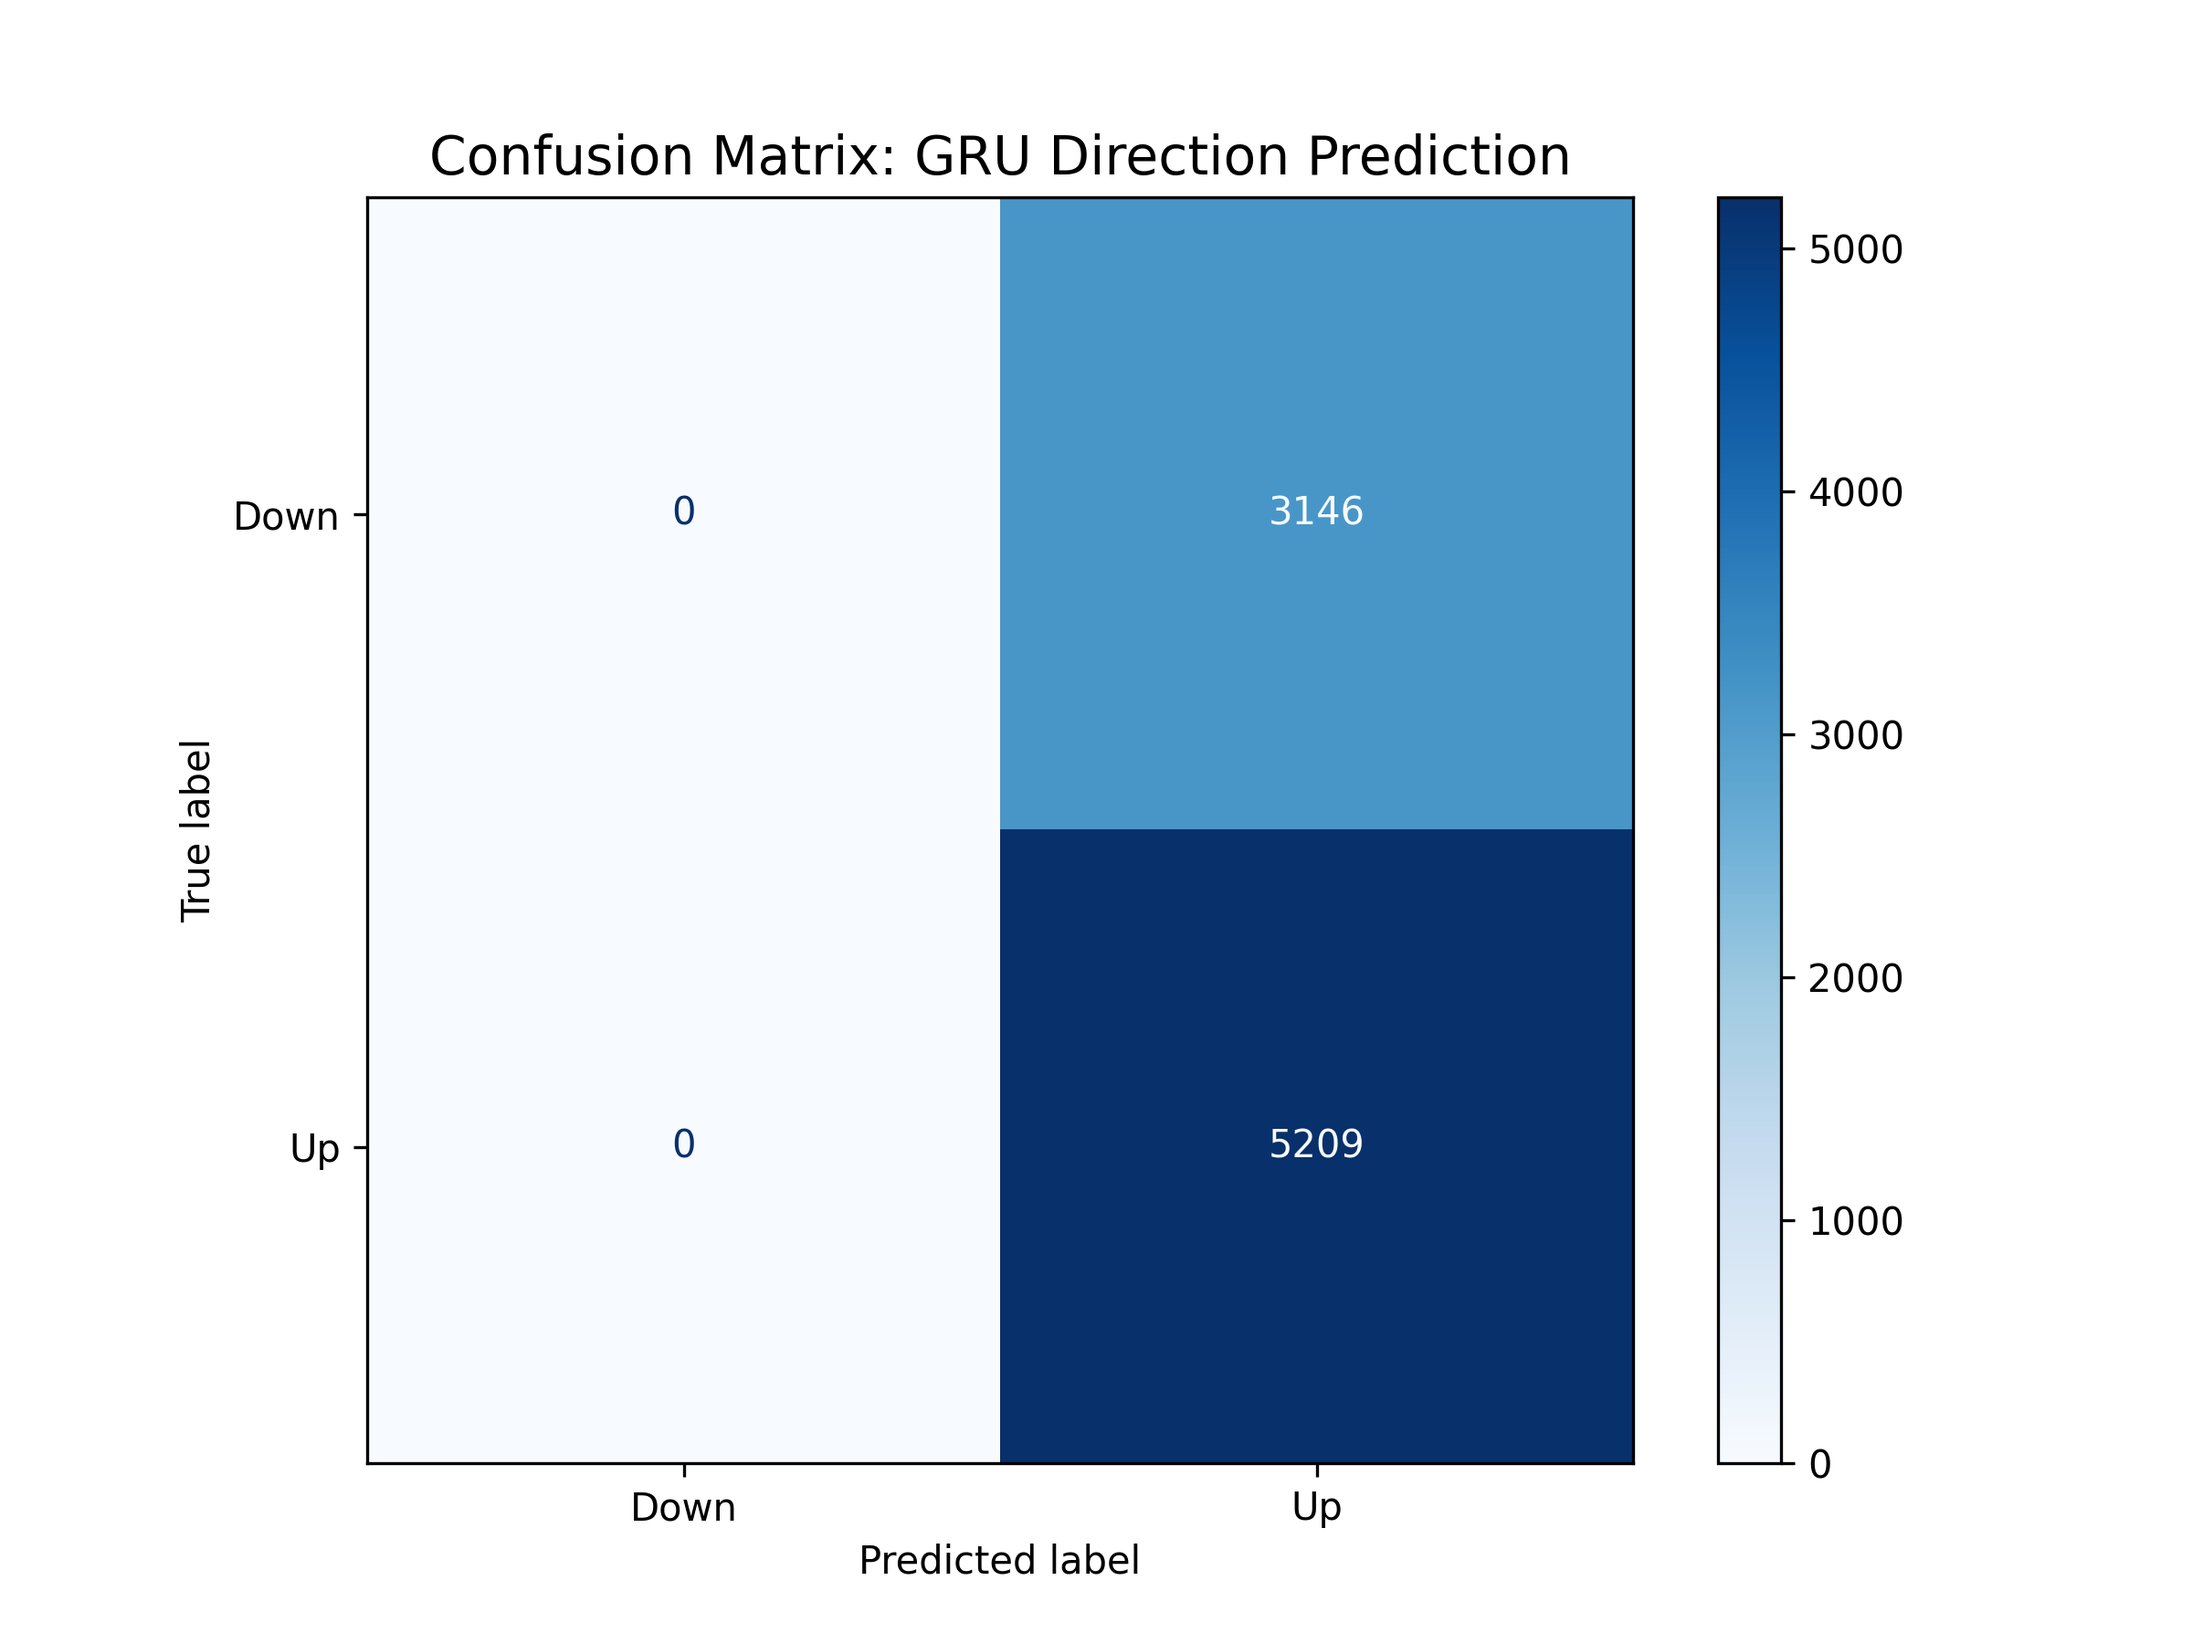
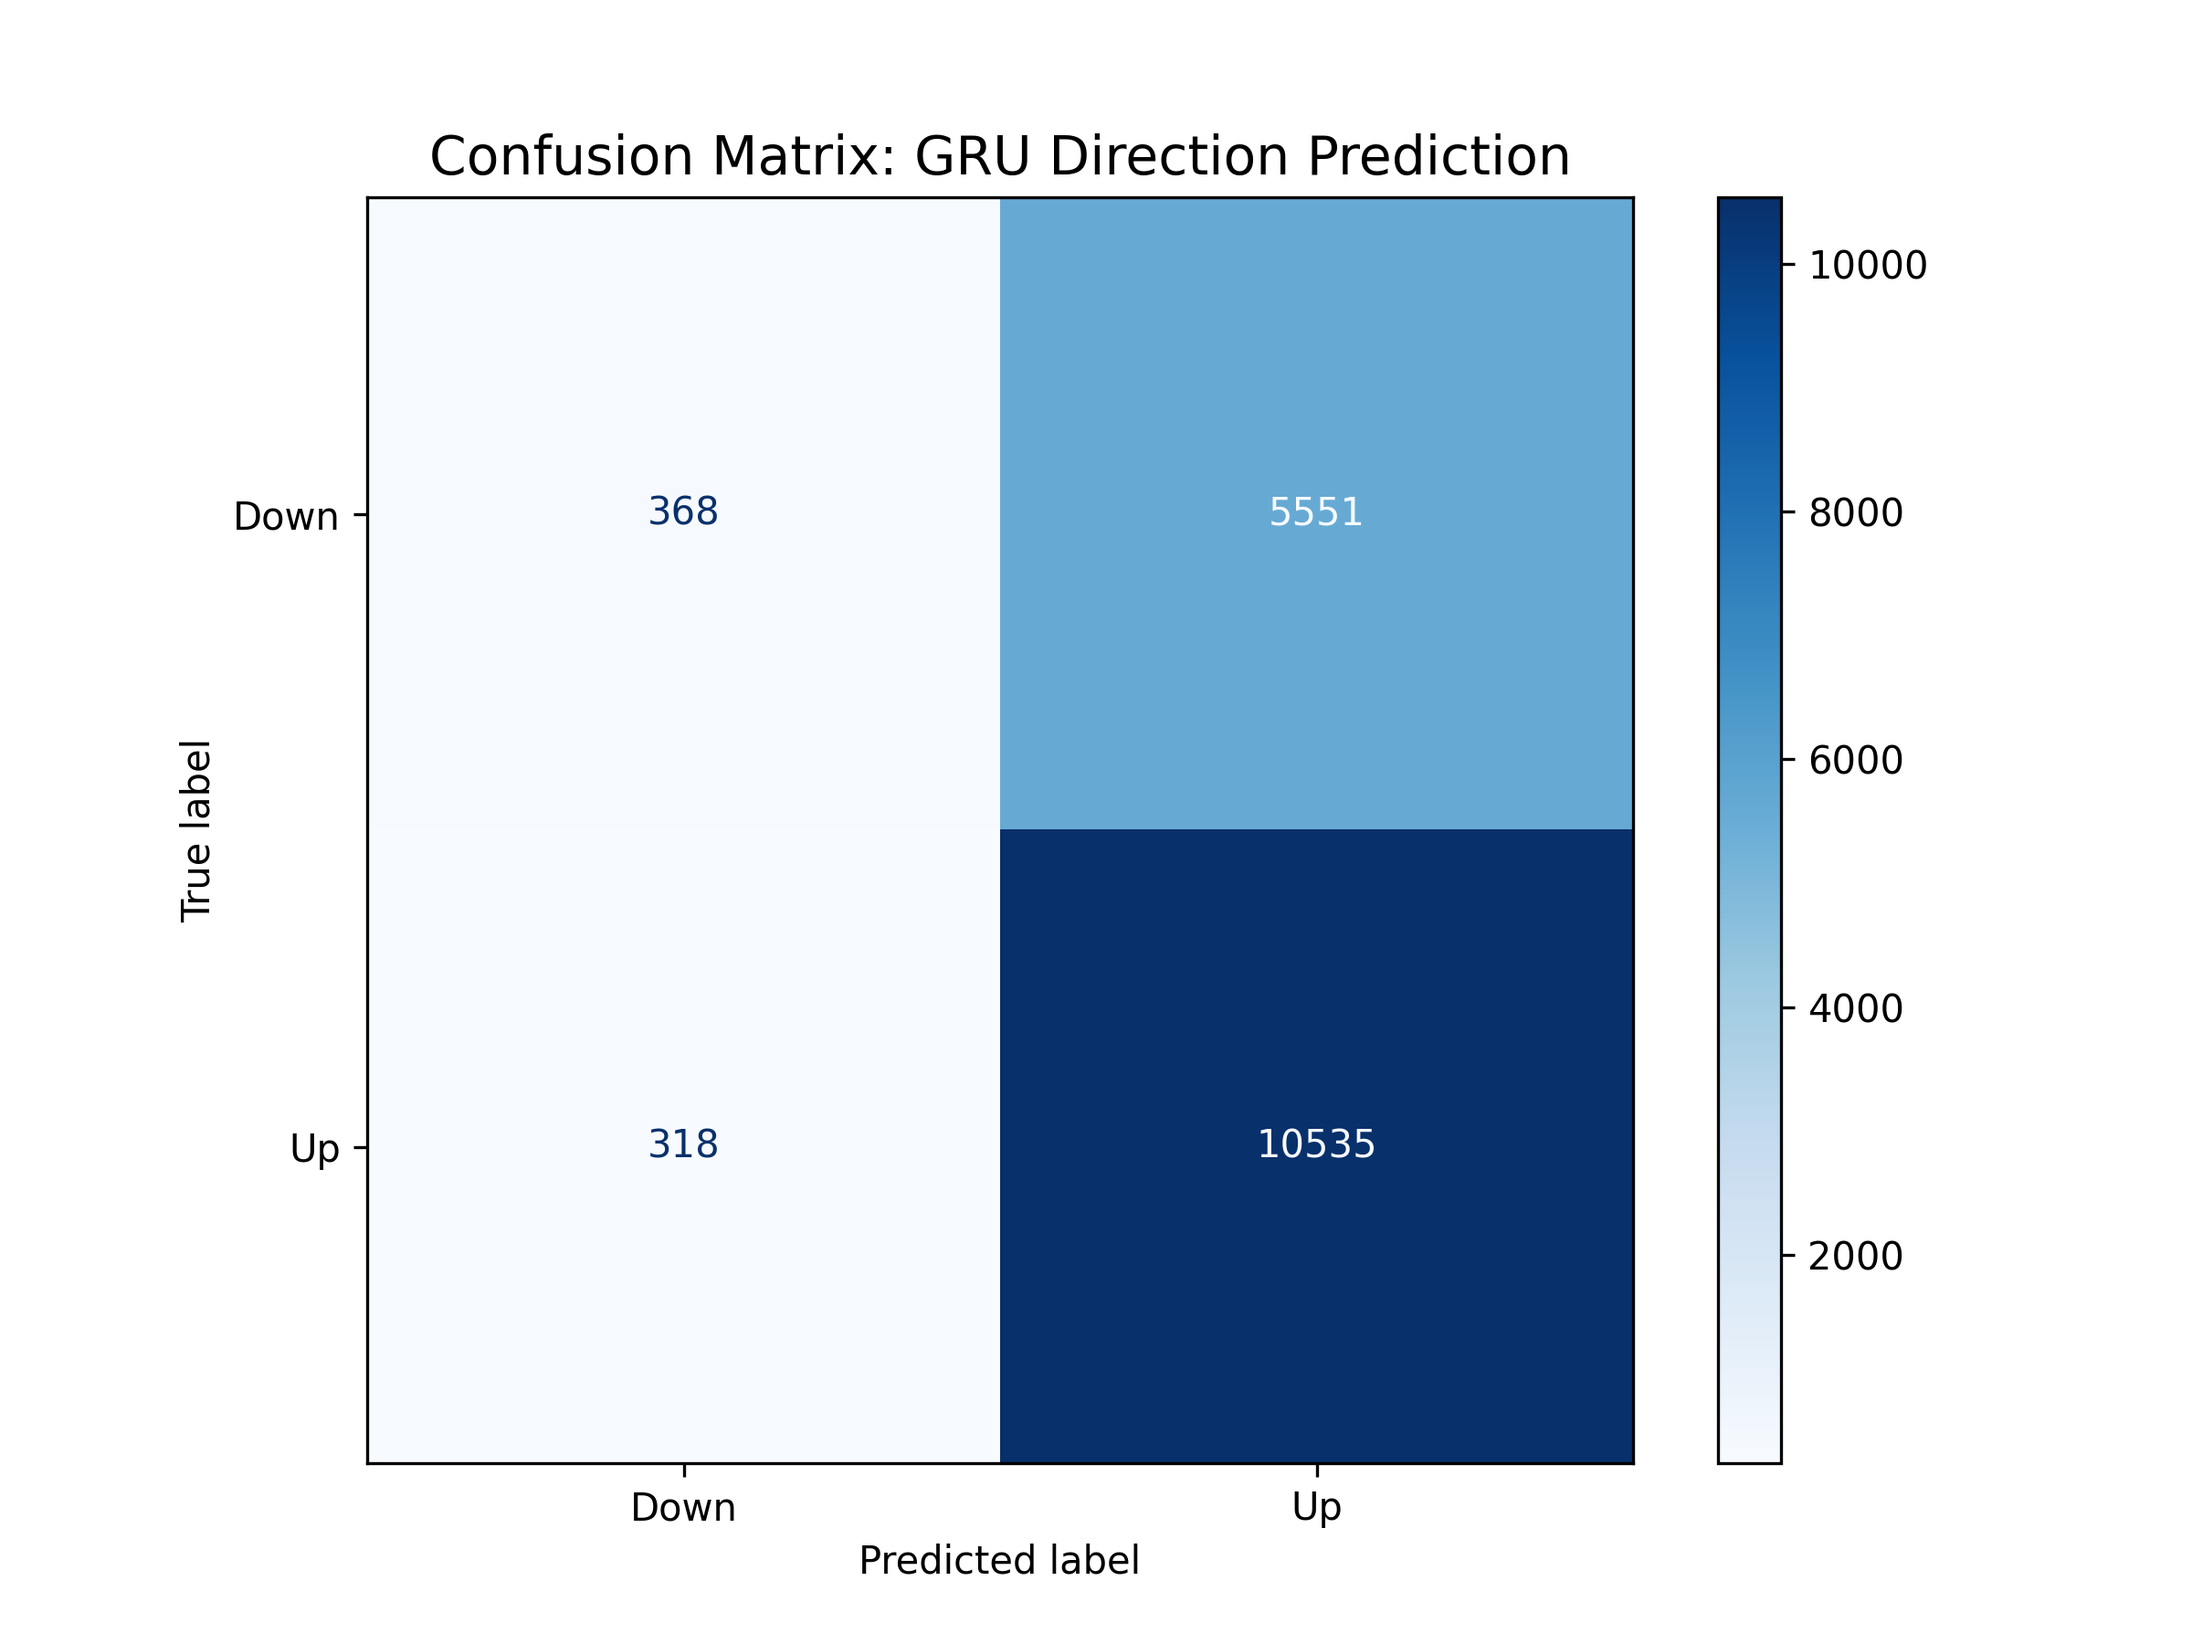
Enhance model training with weighted binary cross-entropy loss
- Updated the compile_model function to accept a down-weight parameter for handling class imbalance in binary classification.
- Implemented a custom weighted_binary_crossentropy function to apply class weights during loss calculation.
- Adjusted the train_model function to calculate the down-weight based on the training dataset's class distribution.
- Updated LSTM and Transformer model history files with new training results.
- Updated various plot images for GRU, LSTM, and Transformer models to reflect the latest training outcomes.

diff --git a/train.py b/train.py
@@ -56,15 +56,22 @@ def prepare_data():
 
 # ── Compile ───────────────────────────────────────────────────────────────────
 
-def compile_model(model: Model):
+def compile_model(model: Model, down_weight: float):
     """
     Compile a model with the shared loss, metrics and optimizer.
     """
+    def weighted_binary_crossentropy(y_true, y_pred):
+        # Standard cross entropy
+        bce = tf.keras.losses.binary_crossentropy(y_true, y_pred)
+        
+        weight_vector = y_true * 1.0 + (1.0 - y_true) * down_weight
+        return tf.reduce_mean(bce * tf.cast(weight_vector, tf.float32))
+    
     model.compile(
         optimizer=Adam(LR),
         loss={
             'price': 'mse',
-            'direction': 'binary_crossentropy'
+            'direction': weighted_binary_crossentropy
         },
         loss_weights={
             'price': 1.0,
@@ -117,7 +124,16 @@ def train_model(model:Model, model_name: str, splits: tuple):
     y_dir_train, y_dir_val, y_dir_test,
     lc_train, lc_val, lc_test) = splits
 
-    compiled_model = compile_model(model)
+    y_dir_flat = y_dir_train.flatten()
+    num_down = np.sum(y_dir_flat == 0)
+    num_up = np.sum(y_dir_flat == 1)
+    
+    down_weight = num_up / num_down if num_down > 0 else 1.0
+    
+    print(f"\033[93mApplying Down-Class Weight Factor: {down_weight:.2f}\033[0m")
+
+    compiled_model = compile_model(model, down_weight)
+
     history = compiled_model.fit(x = X_train,
                                 y = {'price': y_price_train, 'direction': y_dir_train},
                                 validation_data=(X_val, {'price': y_price_val, 'direction': y_dir_val}),

diff --git a/evaluate.py b/evaluate.py
@@ -166,7 +166,7 @@ def evaluate_model(model_name: str, splits: tuple):
     _, _, last_closes_test) = splits
 
     model_path = f'{MODELS_DIR}/{model_name}.keras'
-    model = load_model(model_path)
+    model = load_model(model_path, compile=False)
 
     predictions = model.predict(X_test)
 
